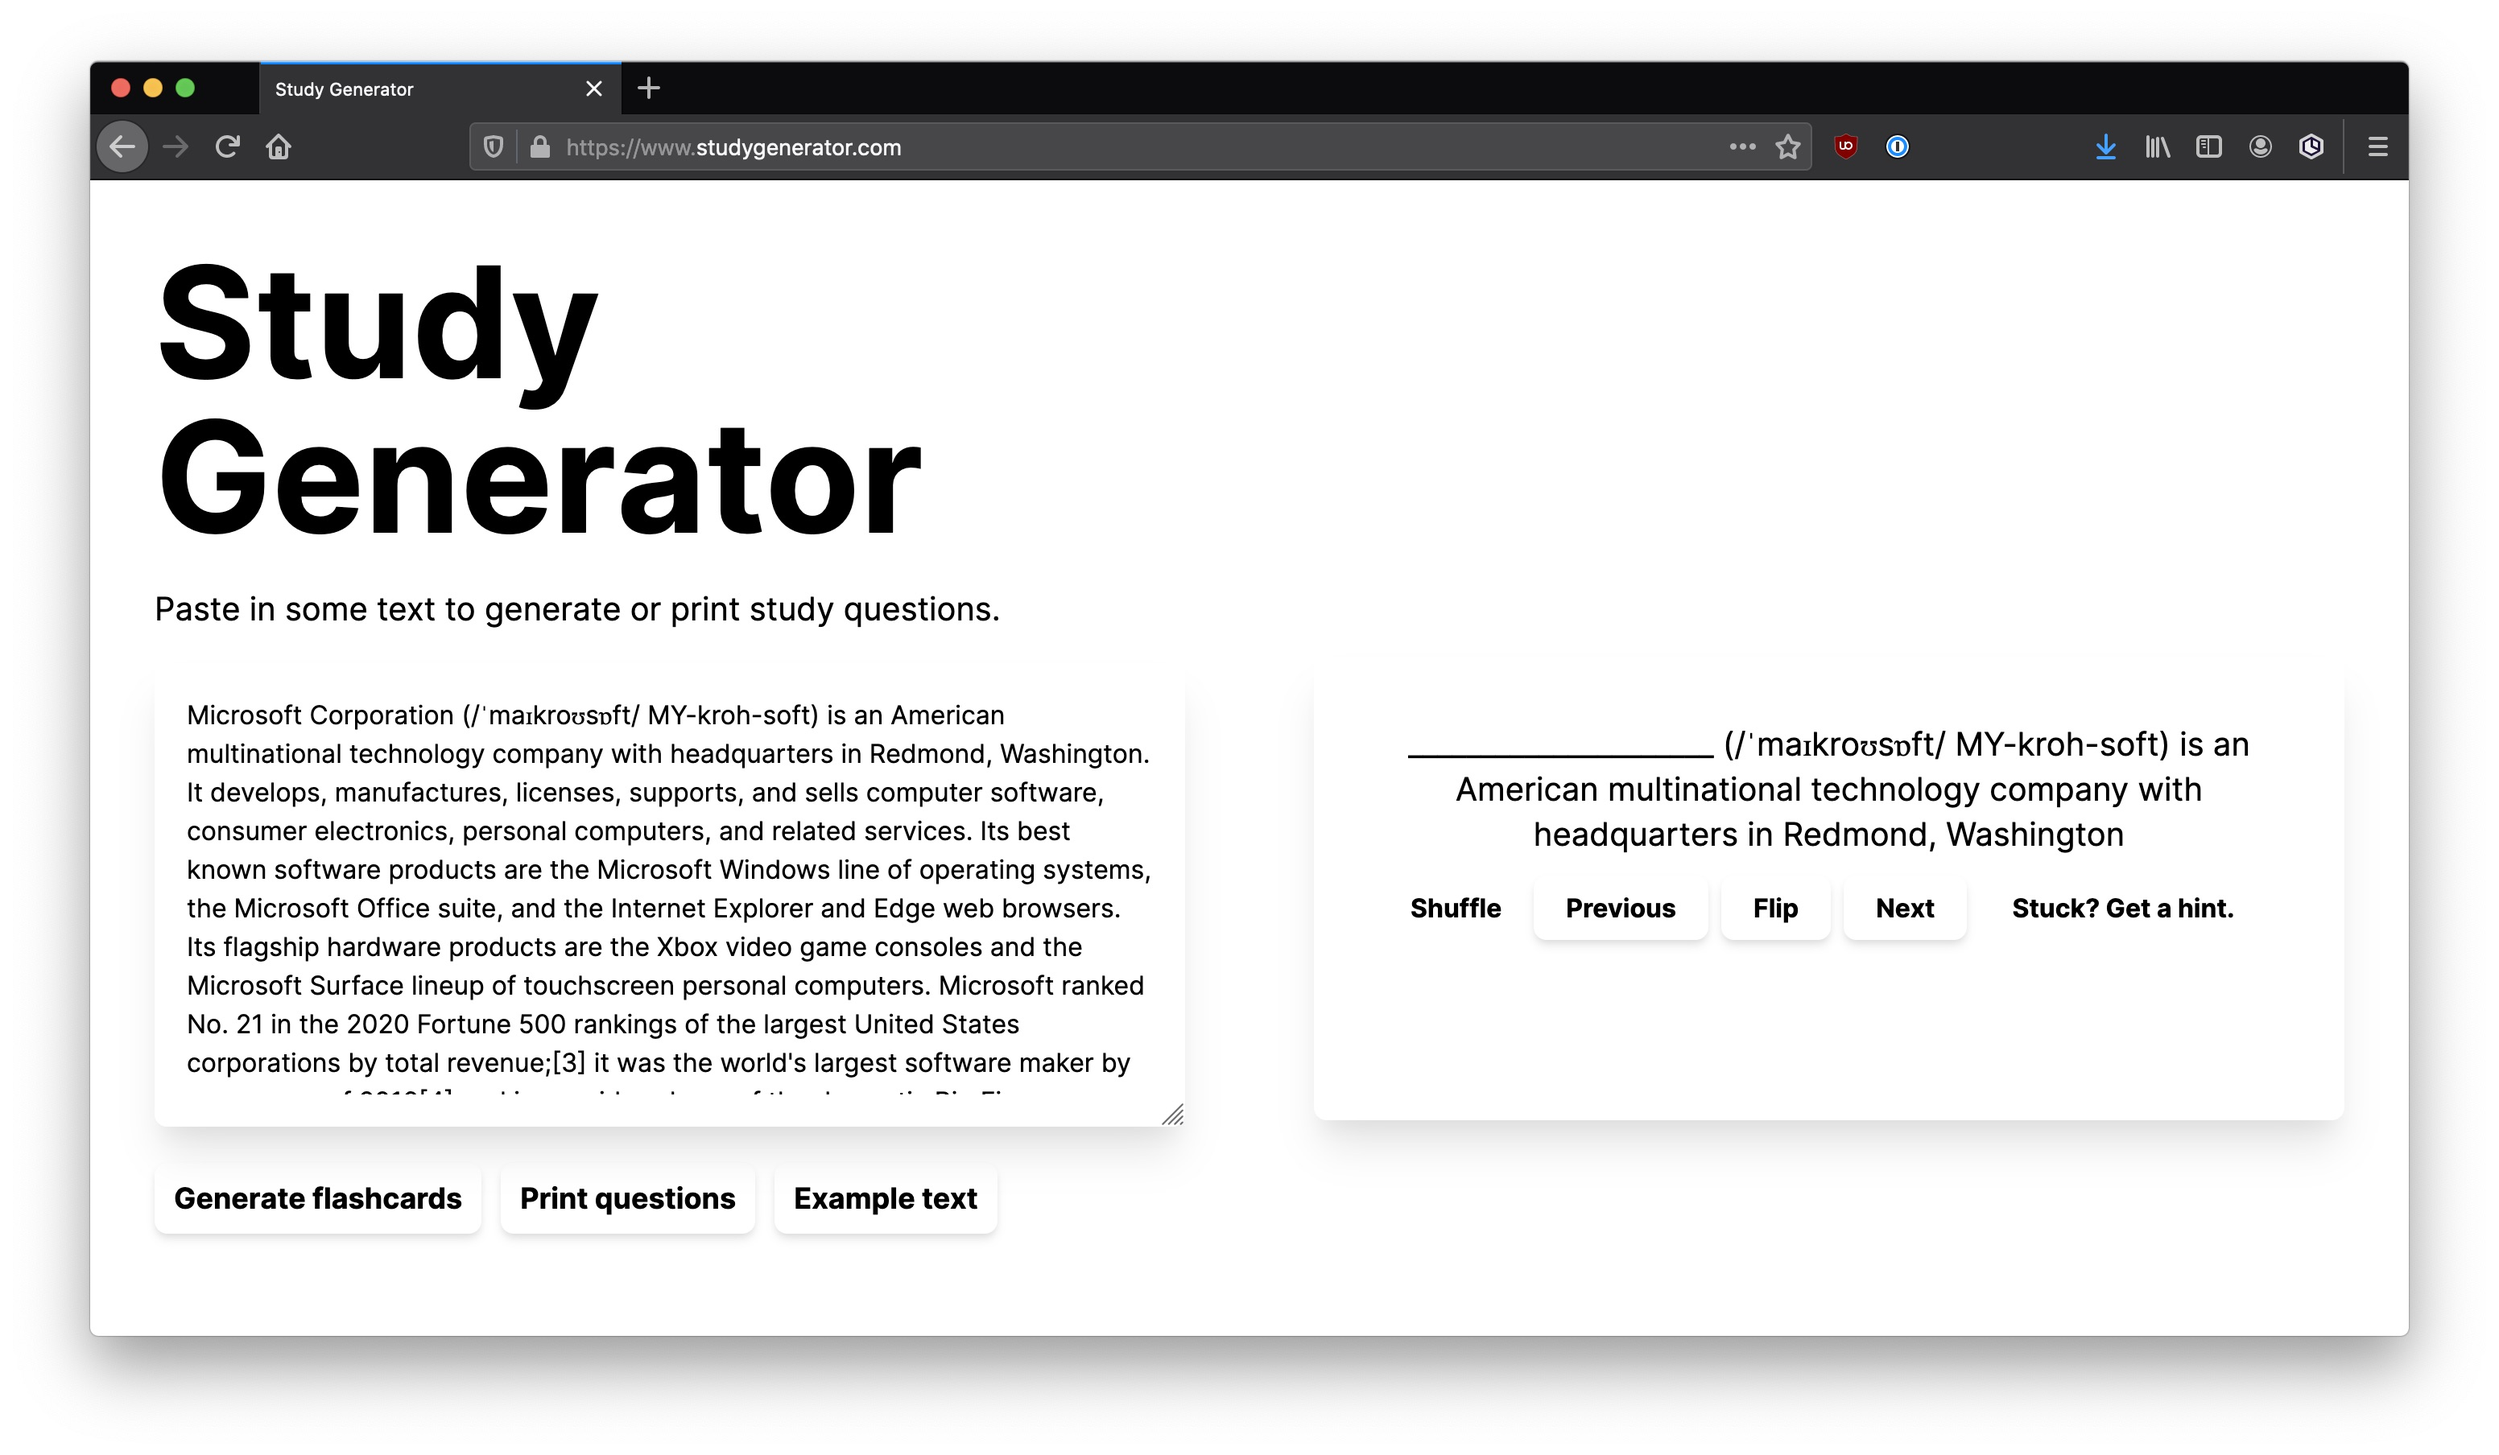
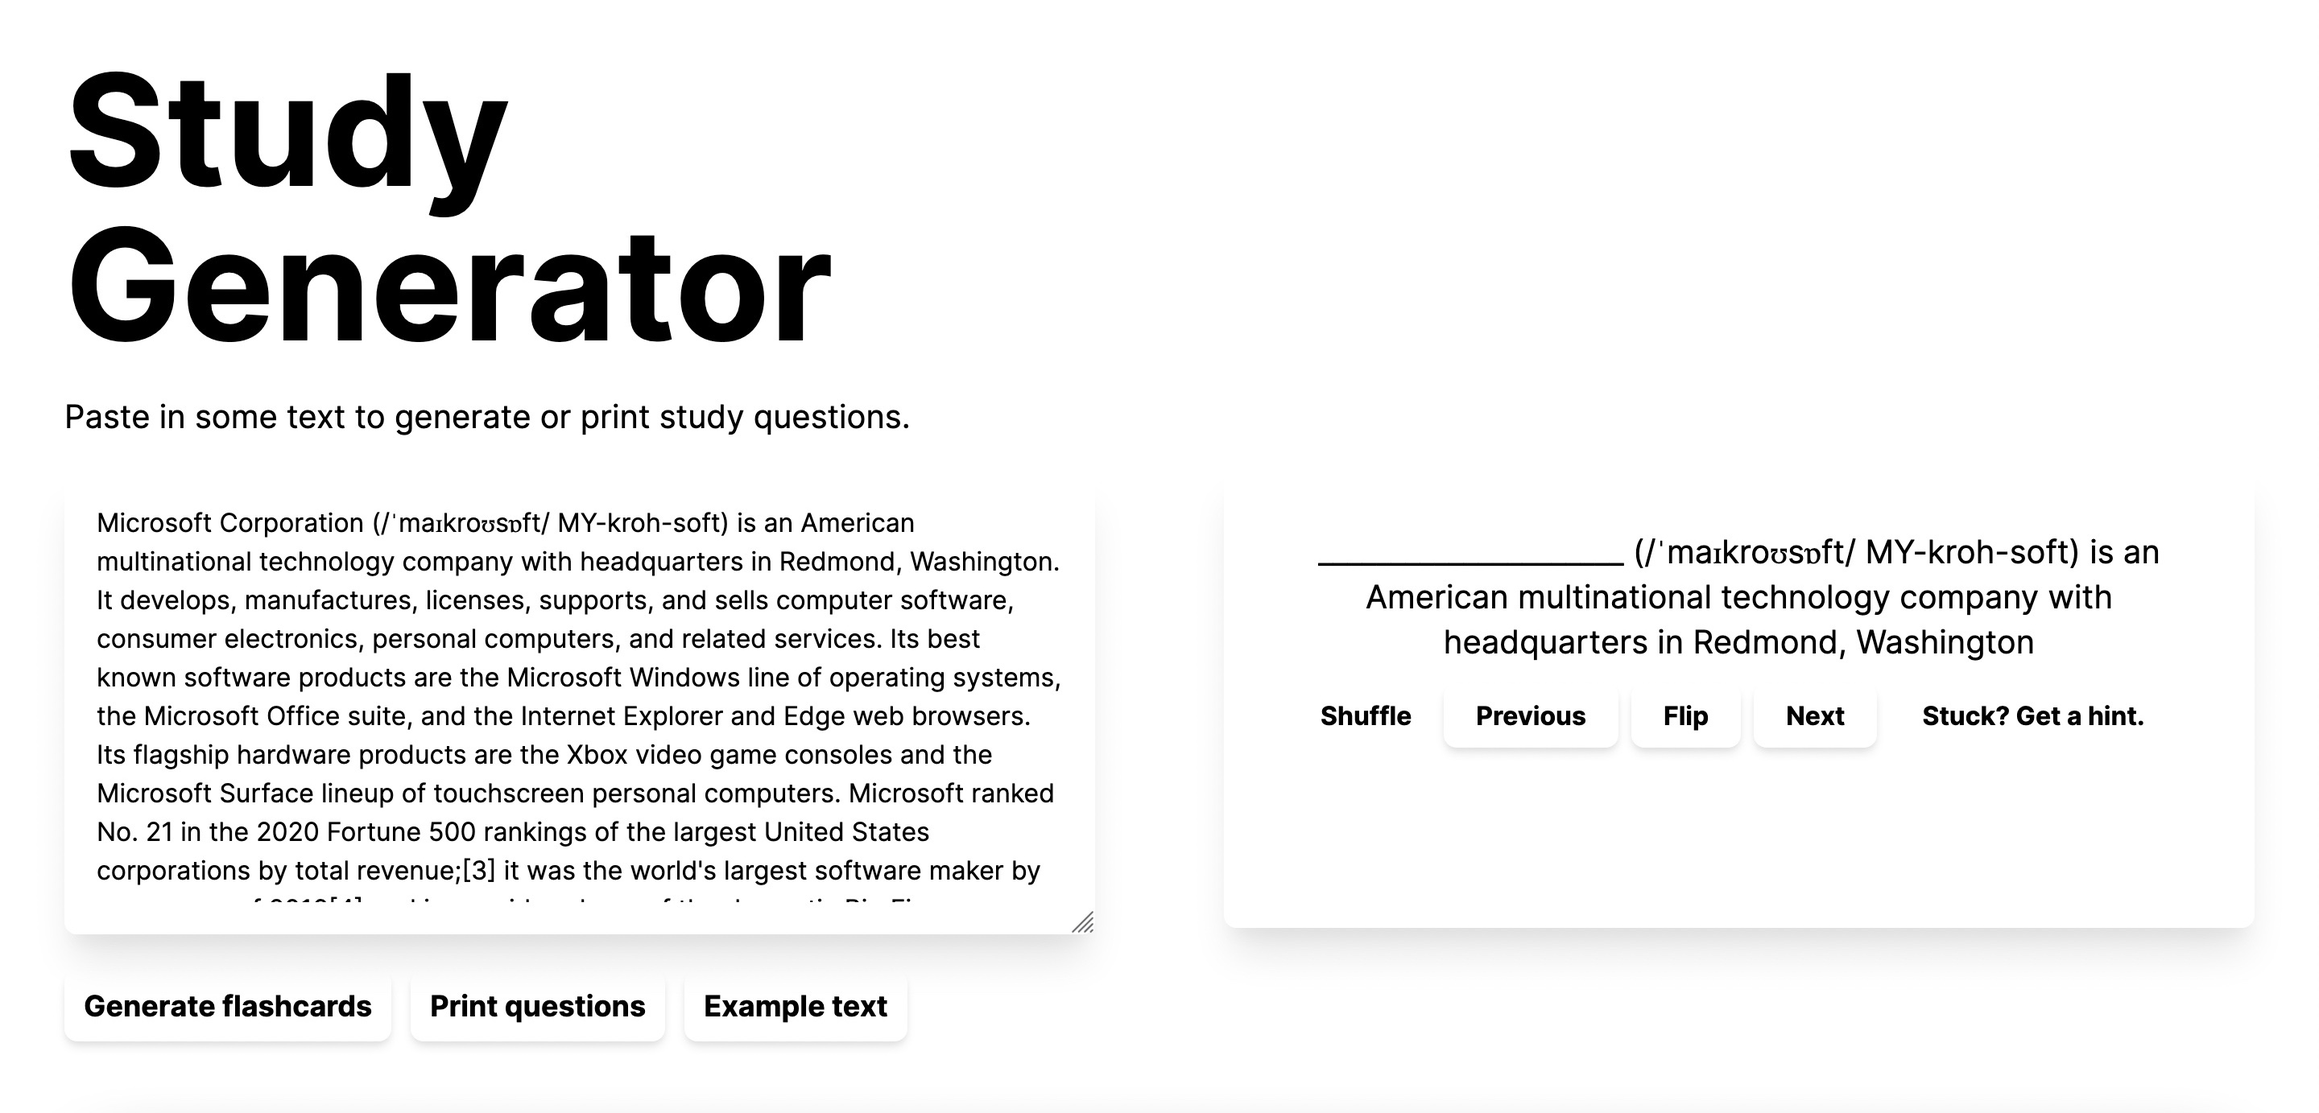
Polished up some CSS

Changed region(s): [[0.0, 0.0311, 1.0, 0.9638]]

diff --git a/src/includes/style.css b/src/includes/style.css
@@ -8,7 +8,7 @@ body {
 }
 
 .page-content {
-    color: #303030;
+    color: #414A4C;
     font-size: 20px;
 }
 
@@ -49,21 +49,21 @@ body {
 
 .nav-item {
     margin: 0 .5rem;
-    font-size: 22px;
+    font-size: 25px;
     padding-top: 30px;
     list-style-type: none;
 }
 
 .nav-link {
     text-decoration: none;
-    color: #383838;
+    color: #414A4C;
     font-weight: 600;
     padding-left: 1vw;
     padding-right: 1vw;
 }
 
 .nav-link:hover {
-    opacity: 0.7;
+    opacity: 0.8;
 }
 
 .nav-button {
@@ -105,7 +105,7 @@ body {
 }
 
 .icon-bar {
-	width: 22px; 
+	width: 20px; 
 	height: 2px;
 	background-color: black;
 	display: block;
@@ -149,36 +149,43 @@ body {
 */
 
 .hero {
-    
-    color: #202020;
+    color: #212526;
     margin: 20px 0px 20px 0px;
     font-size: 85px;
     text-align: center;
-    font-weight: 600;
+    font-weight: 700;
+
+    animation-duration: .25s;
+    animation-name: hero;
 }
 
 .posthero {
-    
-    color: #383838;
+    color: #2d3638;
     margin: 20px 0px 20px 0px;
     font-size: 35px;
     text-align: center;
     font-weight: 600;
+
+    animation-duration: .25s;
+    animation-name: hero;
 }
 
 .social-icons {
     margin: 40px 0px 20px 0px;
     text-align: center;
+
+    animation-duration: .25s;
+    animation-name: hero;
 }
 
 .social-icon {
-    fill: #383838;
+    fill: #2d3638;
     width: 50px;
     margin: 0px 15px 0px 15px;
 }
 
 .social-icon:hover {
-    opacity: 0.7;
+    opacity: 0.8;
 }
 
 .post-excerpts {
@@ -190,14 +197,13 @@ body {
 }
 
 .read-more {
-    
     margin: 20px 0px 20px 0px;
     text-align: center;
 }
 
 .read-more a {
-    font-size: 22px;
-    color: #383838;
+    font-size: 20px;
+    color: #414A4C;
     text-decoration: none;
     font-weight: bold;
 }
@@ -213,8 +219,8 @@ body {
 }
 
 .go-to-archives a {
-    font-size: 22px;
-    color: #383838;
+    font-size: 20px;
+    color: #414A4C;
     text-decoration: none;
     font-weight: bold;
 }
@@ -240,16 +246,27 @@ body {
     }
 }
 
+@keyframes hero {
+    from {
+      margin-left: 1%;
+      opacity: 50%;
+    }
+  
+    to {
+      margin-left: 0%;
+    }
+}
+
 /*
     Pages
 */
 
 .page-title {
     
-    color: #202020;
-    font-size: 70px;
+    color: #2d3638;
+    font-size: 65px;
     margin: 20px 0px 10px 0px;
-    font-weight: 600;
+    font-weight: 700;
     text-decoration: none;
 }
 
@@ -266,25 +283,25 @@ body {
 
 .article-title {
     
-    color: #202020;
-    font-size: 50px;
+    color: #2d3638;
+    font-size: 45px;
     margin: 0px 0px 0px 0px;
     padding: 5px 0px 5px 0px;
-    font-weight: 600;
+    font-weight: 700;
     text-decoration: none;
     clear: both;
 }
 
 .article-title a:hover {
-    opacity: 0.7;
+    opacity: 0.8;
 }
 
 .date {
-    color: #202020;
     font-size: 25px;
     font-weight: 600;
     line-height: 50%;
     float: left;
+    color: #202526;
 }
 
 .article-content p {
@@ -293,15 +310,15 @@ body {
 }
 
 .article-content a {
-    color: #383838;
+    color: #414A4C;
 }
 
 .article-content a:hover {
-    opacity: 0.7;
+    opacity: 0.8;
 }
 
 .article-content h2 {
-    
+    color: #202526;
     font-size: 35px;
     font-weight: bold;
     margin-top: 50px;
@@ -315,6 +332,8 @@ body {
     max-height: 750px;
     margin-top: 7%;
     margin-bottom: 7%;
+    --tw-shadow: 0 10px 15px -3px rgba(0, 0, 0, 0.1), 0 4px 6px -2px rgba(0, 0, 0, 0.05);
+    box-shadow: var(--tw-ring-offset-shadow, 0 0 #0000), var(--tw-ring-shadow, 0 0 #0000), var(--tw-shadow);
 }
 
 /*
@@ -322,10 +341,10 @@ body {
 */
 
 .related-articles-header {
-    
     font-size: 50px;
     font-weight: bold;
     margin: 50px 0px 20px 0px;
+    color: #202526;
 }
 
 .related-articles-item {
@@ -333,9 +352,8 @@ body {
 }
 
 .related-articles-item a {
-    
-    color: #383838;
-    font-size: 22px;
+    color: #414A4C;
+    font-size: 20px;
     font-weight: bold;
     text-decoration: none;
 }
@@ -362,9 +380,9 @@ body {
     border-radius: 30px;
     padding-left: 15px;
     padding-right: 15px;
-    background-color: #383838;
+    background-color: #fcfcfc;
     margin-right: 10px;
-    --tw-shadow: 0 4px 6px -1px rgba(0, 0, 0, 0.1), 0 2px 4px -1px rgba(0, 0, 0, 0.06);
+    --tw-shadow: 0 10px 15px -3px rgba(0, 0, 0, 0.1), 0 4px 6px -2px rgba(0, 0, 0, 0.05);
     box-shadow: var(--tw-ring-offset-shadow, 0 0 #0000), var(--tw-ring-shadow, 0 0 #0000), var(--tw-shadow);
 }
 
@@ -372,12 +390,15 @@ body {
     text-decoration: none;
 }
 
+.tags:hover {
+    opacity: 0.85;
+}
+
 .tags {
-    
     text-transform: uppercase;
     font-size: 20px;
     font-weight: 600;
-    color: white;
+    color: #202526;
     line-height: 20%;
 }
 
@@ -407,19 +428,19 @@ body {
 }
 
 .footer p {
-    
-    font-size: 22px;
+    font-size: 20px;
     font-weight: 600;
     text-align: center;
+    color: #414A4C;
 }
 
 .footer a {
     text-decoration: none;
-    color: #383838;
+    color: #414A4C;
 }
 
 .footer a:hover {
-    opacity: 0.7;
+    opacity: 0.8;
 }
 
 @media only screen and (min-width: 960px) {
@@ -441,10 +462,20 @@ body {
          url('{{ assets.path }}fonts/inter-v2-latin-400-600-700.woff') format('woff');
 }
   
-  @font-face {
+@font-face {
     font-family: 'Inter';
     font-style: normal;
     font-weight: 600;
+    font-display: swap;
+    src: local(''),
+         url('{{ assets.path }}fonts/inter-v2-latin-400-600-700.woff2') format('woff2'),
+         url('{{ assets.path }}fonts/inter-v2-latin-400-600-700.woff') format('woff');
+}
+
+@font-face {
+    font-family: 'Inter';
+    font-style: normal;
+    font-weight: 700;
     font-display: swap;
     src: local(''),
          url('{{ assets.path }}fonts/inter-v2-latin-400-600-700.woff2') format('woff2'),
